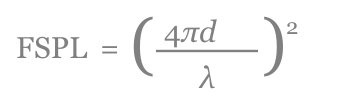
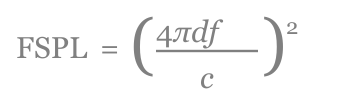
fix(assets): FSPL standard form in frequency notation — (4πdf/c)²
Consistent with the log form's f(MHz); wavelength notation mixed λ in
standard form with frequency in log form. Alt text updated to match.

Changed region(s): [[0.4278, 0.1875, 0.6417, 0.5], [0.55, 0.6875, 0.6111, 0.9375], [0.55, 0.4688, 0.5806, 0.5]]

diff --git a/ewpresenter/src/reference_data.cpp b/ewpresenter/src/reference_data.cpp
@@ -77,7 +77,7 @@ constexpr Row kEbNo[] = {
 // alt text). Constant 32.44 matches libew::constants::fspl_constant_km_mhz.
 constexpr Row kKeyFormulas[] = {
     formula("Free-space path loss", "fspl",
-            "FSPL = (4πd/λ)²",
+            "FSPL = (4πdf/c)²",
             "L = 32.44 + 20 log₁₀ f(MHz) + 20 log₁₀ d(km)  dB"),
 };
 
